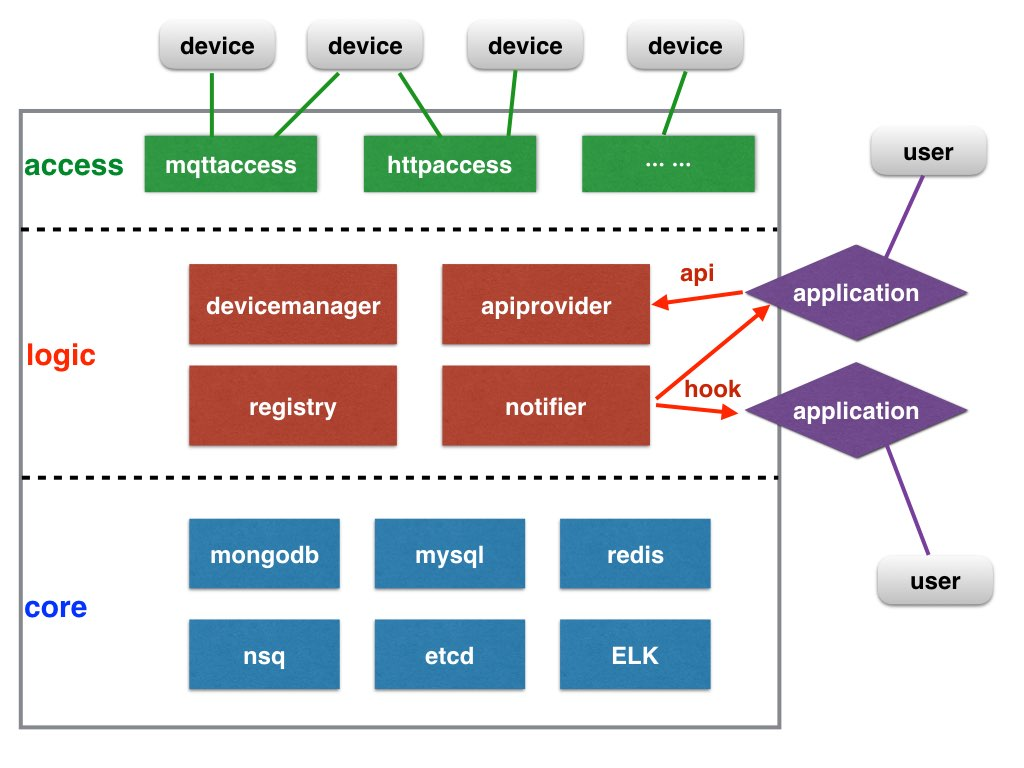
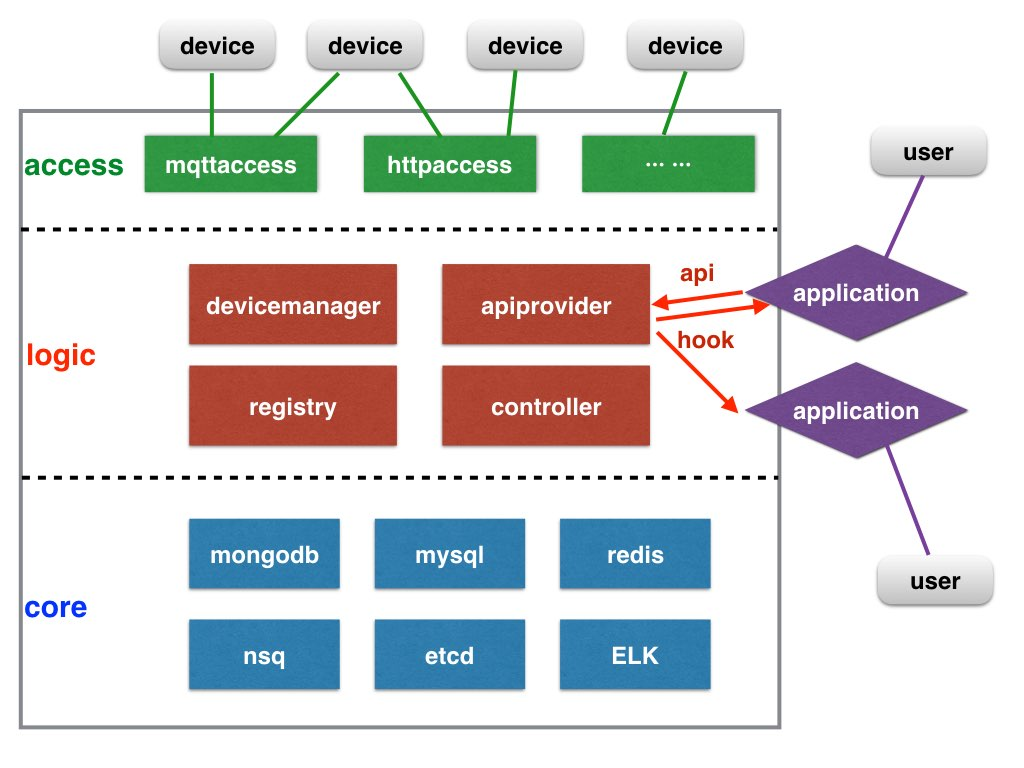
architecture sketch change in README

Changed region(s): [[0.625, 0.375, 0.75, 0.5625], [0.4688, 0.5, 0.5938, 0.5625]]

diff --git a/services/apiprovider/router.go b/services/apiprovider/router.go
@@ -16,7 +16,10 @@ func route(m *martini.ClassicMartini) {
 	// get devie current status
 	m.Get("/application/v1/devices/:identifier/status/current", GetDeviceCurrentStatus)
 
-	// auth device
-	//m.Post("/v1/devices/authentication", binding.Json(DeviceAuthArgs{}), AuthDevice)
+	// get devie latest status
+	m.Get("/application/v1/devices/:identifier/status/latest", GetDeviceLatestStatus)
+
+	// set devie status
+	m.Put("/application/v1/devices/:identifier/status", SetDeviceStatus)
 
 }

diff --git a/README.md b/README.md
@@ -43,8 +43,8 @@ Logic layer implements IoT related business like device online, device managemen
 
 * **registry**: registry serves system level meta data and configurations. 
 * **devicemanger**: device manager is a service to processing device data and requests, and keepping device status.
-* **apiprovider**: provide restful API for applications.
-* **notifier**: notify application when device status changes.
+* **apiprovider**: provide restful API for applications and notify application when device status changes.
+* **controller**: manage device access services and route request to proper access.
 
 ### core 
 
@@ -52,7 +52,7 @@ We relay on a couple of open source solution as core services:
 
 * **mongodb**: we use mongo as device data storage engine and benefits from its simplicity and scalebility. 
 * **mysql**: global configuration like product and device info are stored in mysql.
-* **redis**: widely used as cache service.
+* **redis**: widely used as cache service. 
 * **nsq**: message queue for asynchronous communication.
 * **etcd**: server registration and discovery service.
 * **ELK**: the elasticsearch, logstash and kibana stack privodes a efficient way for log collection and analytics.

diff --git a/docs/zh-cn/README.md b/docs/zh-cn/README.md
@@ -40,8 +40,8 @@ Pando的目的是为了提供一套可应用于实际生产环境的的物联网
 逻辑业务层用于实现整个物联网面相设备的相关业务，例如设备管理和API等。
 * **registry**: 负责维护平台级的配置信息和元数据。
 * **devicemanger**: 设备管理器用于管理设备和处理设备的数据请求，并保持、监视设备状态。
-* **apiprovider**: 为应用程序扩展提供Restful API。
-* **notifier**: 用通知形式告诉应用程序现在设备的状态变化。
+* **apiprovider**: 为应用程序扩展提供Restful API，并在设备状态发生变化时通知应用服务器。
+* **controller**: 管理设备接入服务，并且将设备请求路由到正确的接入服务。
 
 ### 核心层 
 
